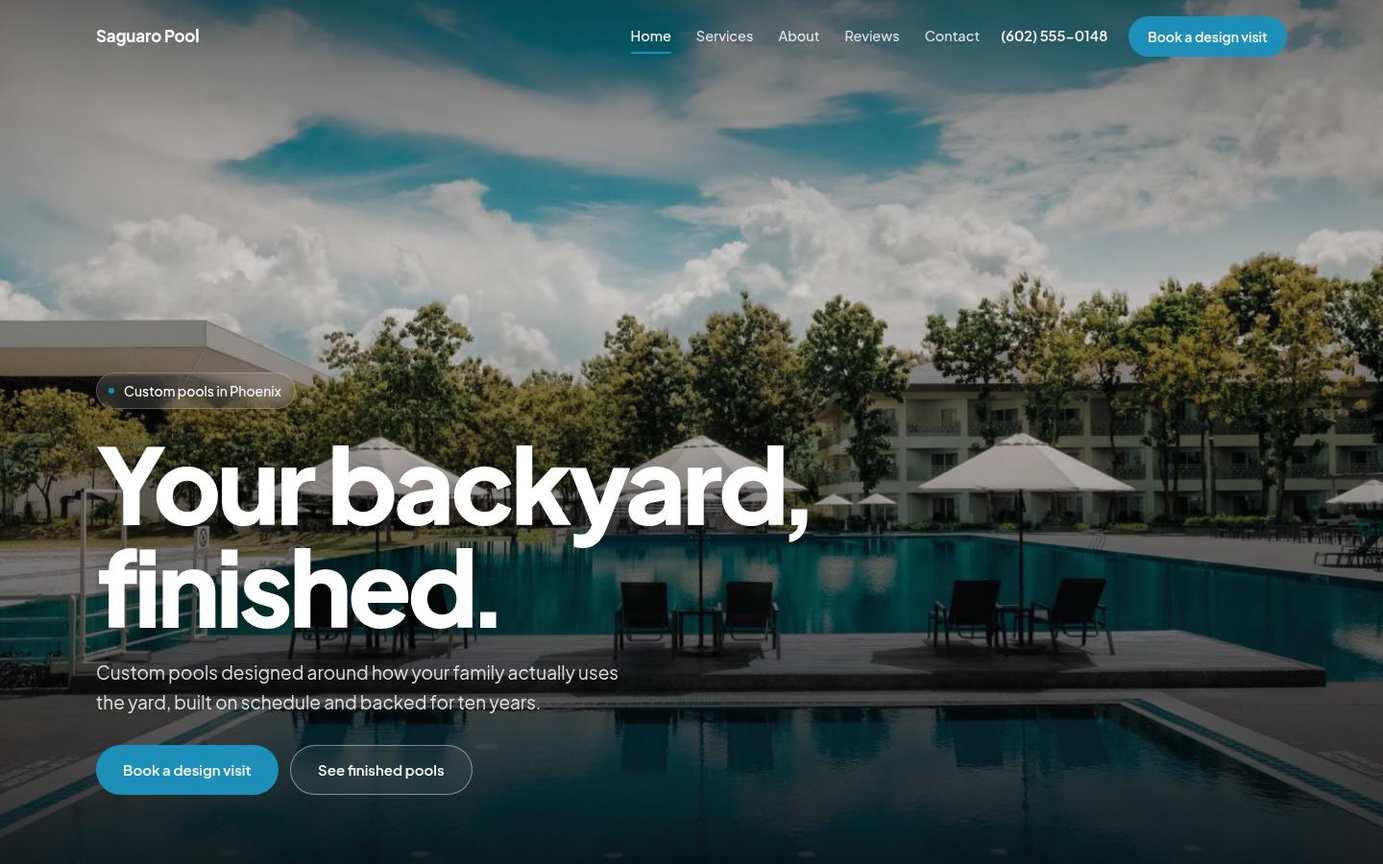
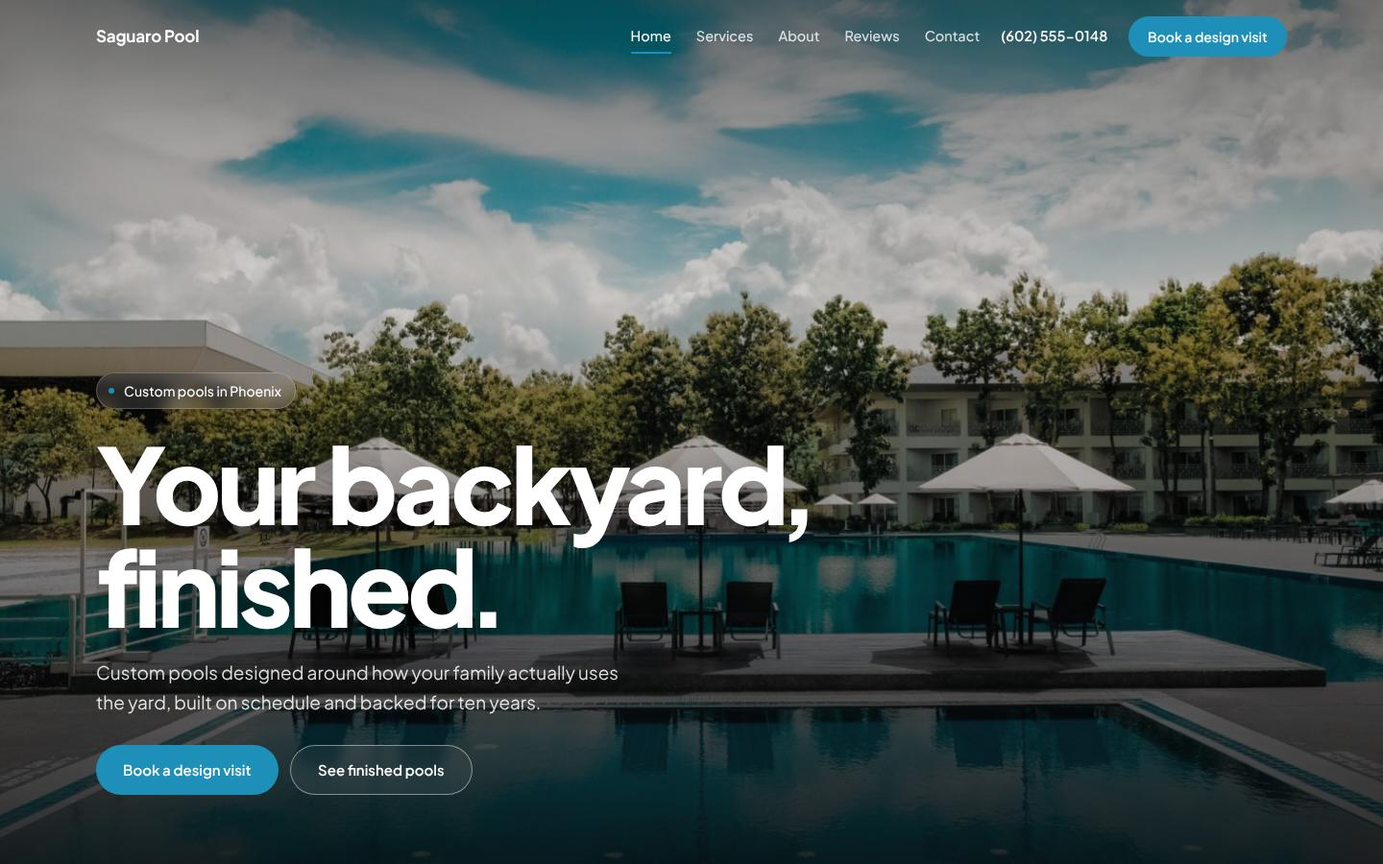
Sample websites open in dark, with matching pictures
One setting (SAMPLE_MODE) decides the mode every sample site on the
marketing site opens in, and the pictures of the designs are re-shot to
match. Visitors can still flip any sample to light from its top bar.

Claude-Session: https://claude.ai/code/session_01VqsXdAoWLwWRpnBaUkDbvd

diff --git a/marketing-site/examples/handyman/services/index.html b/marketing-site/examples/handyman/services/index.html
@@ -1,4 +1,4 @@
-<!doctype html><html lang="en" data-mode="light"><head><meta charset="utf-8"><script>
+<!doctype html><html lang="en" data-mode="dark"><head><meta charset="utf-8"><script>
 /* Sample site guard. These pages show a made-up business, so nothing on them may reach anything real:
    no form is sent, no enquiry is created, no visit is counted. Runs before anything else on the page. */
 (function(){
@@ -19,12 +19,12 @@
 </script><meta name="viewport" content="width=device-width,initial-scale=1,viewport-fit=cover">
 <title>Services | Cedar and Nail</title><meta name="description" content="Handyman services in Mesa."><link rel="canonical" href="/examples/handyman/services/">
 <meta property="og:title" content="Services | Cedar and Nail"><meta property="og:description" content="Handyman services in Mesa."><meta property="og:type" content="website"><meta property="og:url" content="/examples/handyman/services/"><meta property="og:image" content="/img/sample/handy-1249611.jpg">
-<meta name="theme-color" content="#F7F6F2"><meta name="robots" content="noindex">
+<meta name="theme-color" content="#131513"><meta name="robots" content="noindex">
 <link rel="preconnect" href="https://fonts.googleapis.com"><link rel="preconnect" href="https://fonts.gstatic.com" crossorigin><link rel="stylesheet" href="https://fonts.googleapis.com/css2?family=Playfair+Display:wght@400..700&family=Instrument+Sans:wght@400..700&display=swap" media="print" onload="this.media='all'"><noscript><link rel="stylesheet" href="https://fonts.googleapis.com/css2?family=Playfair+Display:wght@400..700&family=Instrument+Sans:wght@400..700&display=swap"></noscript>
 
 <style>
-:root{--bg:#F7F6F2;--bg2:#FFFFFF;--ink:#171A18;--mute:#686D69;--line:rgba(23,26,24,.12);--ac:#2F6B4F;--ac2:#2F6B4F;--ac3:#2F6B4F;--on:#FFFFFF;--card:#FFFFFF;--deep:#171A18;--r:4px;--ease:cubic-bezier(.2,.7,.1,1);--io:cubic-bezier(.7,0,.2,1)}
-html[data-mode=dark]{--bg:#131513;--bg2:#1B1E1C;--ink:#ECEAE3;--mute:#9DA39E;--line:rgba(236,234,227,.14);--ac:#2F6B4F;--ac2:#2F6B4F;--ac3:#2F6B4F;--on:#FFFFFF;--card:#1B1E1C;--deep:#1B1E1C}
+:root{--bg:#131513;--bg2:#1B1E1C;--ink:#ECEAE3;--mute:#9DA39E;--line:rgba(236,234,227,.14);--ac:#2F6B4F;--ac2:#2F6B4F;--ac3:#2F6B4F;--on:#FFFFFF;--card:#1B1E1C;--deep:#1B1E1C;--r:4px;--ease:cubic-bezier(.2,.7,.1,1);--io:cubic-bezier(.7,0,.2,1)}
+html[data-mode=light]{--bg:#F7F6F2;--bg2:#FFFFFF;--ink:#171A18;--mute:#686D69;--line:rgba(23,26,24,.12);--ac:#2F6B4F;--ac2:#2F6B4F;--ac3:#2F6B4F;--on:#FFFFFF;--card:#FFFFFF;--deep:#171A18}
 *{box-sizing:border-box;margin:0;padding:0}
 html{-webkit-text-size-adjust:100%;scroll-behavior:smooth}
 html.lenis,html.lenis body{height:auto}.lenis.lenis-smooth{scroll-behavior:auto!important}.lenis.lenis-stopped{overflow:hidden}

diff --git a/marketing-site/examples/handyman/contact/index.html b/marketing-site/examples/handyman/contact/index.html
@@ -1,4 +1,4 @@
-<!doctype html><html lang="en" data-mode="light"><head><meta charset="utf-8"><script>
+<!doctype html><html lang="en" data-mode="dark"><head><meta charset="utf-8"><script>
 /* Sample site guard. These pages show a made-up business, so nothing on them may reach anything real:
    no form is sent, no enquiry is created, no visit is counted. Runs before anything else on the page. */
 (function(){
@@ -19,12 +19,12 @@
 </script><meta name="viewport" content="width=device-width,initial-scale=1,viewport-fit=cover">
 <title>Contact | Cedar and Nail</title><meta name="description" content="Handyman services in Mesa."><link rel="canonical" href="/examples/handyman/contact/">
 <meta property="og:title" content="Contact | Cedar and Nail"><meta property="og:description" content="Handyman services in Mesa."><meta property="og:type" content="website"><meta property="og:url" content="/examples/handyman/contact/"><meta property="og:image" content="/img/sample/handy-1249611.jpg">
-<meta name="theme-color" content="#F7F6F2"><meta name="robots" content="noindex">
+<meta name="theme-color" content="#131513"><meta name="robots" content="noindex">
 <link rel="preconnect" href="https://fonts.googleapis.com"><link rel="preconnect" href="https://fonts.gstatic.com" crossorigin><link rel="stylesheet" href="https://fonts.googleapis.com/css2?family=Playfair+Display:wght@400..700&family=Instrument+Sans:wght@400..700&display=swap" media="print" onload="this.media='all'"><noscript><link rel="stylesheet" href="https://fonts.googleapis.com/css2?family=Playfair+Display:wght@400..700&family=Instrument+Sans:wght@400..700&display=swap"></noscript>
 
 <style>
-:root{--bg:#F7F6F2;--bg2:#FFFFFF;--ink:#171A18;--mute:#686D69;--line:rgba(23,26,24,.12);--ac:#2F6B4F;--ac2:#2F6B4F;--ac3:#2F6B4F;--on:#FFFFFF;--card:#FFFFFF;--deep:#171A18;--r:4px;--ease:cubic-bezier(.2,.7,.1,1);--io:cubic-bezier(.7,0,.2,1)}
-html[data-mode=dark]{--bg:#131513;--bg2:#1B1E1C;--ink:#ECEAE3;--mute:#9DA39E;--line:rgba(236,234,227,.14);--ac:#2F6B4F;--ac2:#2F6B4F;--ac3:#2F6B4F;--on:#FFFFFF;--card:#1B1E1C;--deep:#1B1E1C}
+:root{--bg:#131513;--bg2:#1B1E1C;--ink:#ECEAE3;--mute:#9DA39E;--line:rgba(236,234,227,.14);--ac:#2F6B4F;--ac2:#2F6B4F;--ac3:#2F6B4F;--on:#FFFFFF;--card:#1B1E1C;--deep:#1B1E1C;--r:4px;--ease:cubic-bezier(.2,.7,.1,1);--io:cubic-bezier(.7,0,.2,1)}
+html[data-mode=light]{--bg:#F7F6F2;--bg2:#FFFFFF;--ink:#171A18;--mute:#686D69;--line:rgba(23,26,24,.12);--ac:#2F6B4F;--ac2:#2F6B4F;--ac3:#2F6B4F;--on:#FFFFFF;--card:#FFFFFF;--deep:#171A18}
 *{box-sizing:border-box;margin:0;padding:0}
 html{-webkit-text-size-adjust:100%;scroll-behavior:smooth}
 html.lenis,html.lenis body{height:auto}.lenis.lenis-smooth{scroll-behavior:auto!important}.lenis.lenis-stopped{overflow:hidden}

diff --git a/marketing-site/examples/handyman/reviews/index.html b/marketing-site/examples/handyman/reviews/index.html
@@ -1,4 +1,4 @@
-<!doctype html><html lang="en" data-mode="light"><head><meta charset="utf-8"><script>
+<!doctype html><html lang="en" data-mode="dark"><head><meta charset="utf-8"><script>
 /* Sample site guard. These pages show a made-up business, so nothing on them may reach anything real:
    no form is sent, no enquiry is created, no visit is counted. Runs before anything else on the page. */
 (function(){
@@ -19,12 +19,12 @@
 </script><meta name="viewport" content="width=device-width,initial-scale=1,viewport-fit=cover">
 <title>Reviews | Cedar and Nail</title><meta name="description" content="Handyman services in Mesa."><link rel="canonical" href="/examples/handyman/reviews/">
 <meta property="og:title" content="Reviews | Cedar and Nail"><meta property="og:description" content="Handyman services in Mesa."><meta property="og:type" content="website"><meta property="og:url" content="/examples/handyman/reviews/"><meta property="og:image" content="/img/sample/handy-1249611.jpg">
-<meta name="theme-color" content="#F7F6F2"><meta name="robots" content="noindex">
+<meta name="theme-color" content="#131513"><meta name="robots" content="noindex">
 <link rel="preconnect" href="https://fonts.googleapis.com"><link rel="preconnect" href="https://fonts.gstatic.com" crossorigin><link rel="stylesheet" href="https://fonts.googleapis.com/css2?family=Playfair+Display:wght@400..700&family=Instrument+Sans:wght@400..700&display=swap" media="print" onload="this.media='all'"><noscript><link rel="stylesheet" href="https://fonts.googleapis.com/css2?family=Playfair+Display:wght@400..700&family=Instrument+Sans:wght@400..700&display=swap"></noscript>
 
 <style>
-:root{--bg:#F7F6F2;--bg2:#FFFFFF;--ink:#171A18;--mute:#686D69;--line:rgba(23,26,24,.12);--ac:#2F6B4F;--ac2:#2F6B4F;--ac3:#2F6B4F;--on:#FFFFFF;--card:#FFFFFF;--deep:#171A18;--r:4px;--ease:cubic-bezier(.2,.7,.1,1);--io:cubic-bezier(.7,0,.2,1)}
-html[data-mode=dark]{--bg:#131513;--bg2:#1B1E1C;--ink:#ECEAE3;--mute:#9DA39E;--line:rgba(236,234,227,.14);--ac:#2F6B4F;--ac2:#2F6B4F;--ac3:#2F6B4F;--on:#FFFFFF;--card:#1B1E1C;--deep:#1B1E1C}
+:root{--bg:#131513;--bg2:#1B1E1C;--ink:#ECEAE3;--mute:#9DA39E;--line:rgba(236,234,227,.14);--ac:#2F6B4F;--ac2:#2F6B4F;--ac3:#2F6B4F;--on:#FFFFFF;--card:#1B1E1C;--deep:#1B1E1C;--r:4px;--ease:cubic-bezier(.2,.7,.1,1);--io:cubic-bezier(.7,0,.2,1)}
+html[data-mode=light]{--bg:#F7F6F2;--bg2:#FFFFFF;--ink:#171A18;--mute:#686D69;--line:rgba(23,26,24,.12);--ac:#2F6B4F;--ac2:#2F6B4F;--ac3:#2F6B4F;--on:#FFFFFF;--card:#FFFFFF;--deep:#171A18}
 *{box-sizing:border-box;margin:0;padding:0}
 html{-webkit-text-size-adjust:100%;scroll-behavior:smooth}
 html.lenis,html.lenis body{height:auto}.lenis.lenis-smooth{scroll-behavior:auto!important}.lenis.lenis-stopped{overflow:hidden}

diff --git a/marketing-site/examples/window-tint/services/index.html b/marketing-site/examples/window-tint/services/index.html
@@ -1,4 +1,4 @@
-<!doctype html><html lang="en" data-mode="light"><head><meta charset="utf-8"><script>
+<!doctype html><html lang="en" data-mode="dark"><head><meta charset="utf-8"><script>
 /* Sample site guard. These pages show a made-up business, so nothing on them may reach anything real:
    no form is sent, no enquiry is created, no visit is counted. Runs before anything else on the page. */
 (function(){
@@ -19,12 +19,12 @@
 </script><meta name="viewport" content="width=device-width,initial-scale=1,viewport-fit=cover">
 <title>Services | Blackline Tint and Film</title><meta name="description" content="Window tint and paint protection film in Tempe."><link rel="canonical" href="/examples/window-tint/services/">
 <meta property="og:title" content="Services | Blackline Tint and Film"><meta property="og:description" content="Window tint and paint protection film in Tempe."><meta property="og:type" content="website"><meta property="og:url" content="/examples/window-tint/services/"><meta property="og:image" content="/img/sample/tint-6872165.jpg">
-<meta name="theme-color" content="#F8F7F4"><meta name="robots" content="noindex">
+<meta name="theme-color" content="#0F1012"><meta name="robots" content="noindex">
 <link rel="preconnect" href="https://fonts.googleapis.com"><link rel="preconnect" href="https://fonts.gstatic.com" crossorigin><link rel="stylesheet" href="https://fonts.googleapis.com/css2?family=Plus+Jakarta+Sans:wght@400..800&display=swap" media="print" onload="this.media='all'"><noscript><link rel="stylesheet" href="https://fonts.googleapis.com/css2?family=Plus+Jakarta+Sans:wght@400..800&display=swap"></noscript>
 
 <style>
-:root{--bg:#F8F7F4;--bg2:#FFFFFF;--ink:#111214;--mute:#5E6166;--line:rgba(17,18,20,.10);--ac:#B8312F;--ac2:#B8312F;--ac3:#B8312F;--on:#FFFFFF;--card:#FFFFFF;--deep:#111214;--r:20px;--ease:cubic-bezier(.2,.7,.1,1);--io:cubic-bezier(.7,0,.2,1)}
-html[data-mode=dark]{--bg:#0F1012;--bg2:#18191C;--ink:#F4F3F0;--mute:#A3A6AC;--line:rgba(255,255,255,.10);--ac:#B8312F;--ac2:#B8312F;--ac3:#B8312F;--on:#FFFFFF;--card:#18191C;--deep:#18191C}
+:root{--bg:#0F1012;--bg2:#18191C;--ink:#F4F3F0;--mute:#A3A6AC;--line:rgba(255,255,255,.10);--ac:#B8312F;--ac2:#B8312F;--ac3:#B8312F;--on:#FFFFFF;--card:#18191C;--deep:#18191C;--r:20px;--ease:cubic-bezier(.2,.7,.1,1);--io:cubic-bezier(.7,0,.2,1)}
+html[data-mode=light]{--bg:#F8F7F4;--bg2:#FFFFFF;--ink:#111214;--mute:#5E6166;--line:rgba(17,18,20,.10);--ac:#B8312F;--ac2:#B8312F;--ac3:#B8312F;--on:#FFFFFF;--card:#FFFFFF;--deep:#111214}
 *{box-sizing:border-box;margin:0;padding:0}
 html{-webkit-text-size-adjust:100%;scroll-behavior:smooth}
 html.lenis,html.lenis body{height:auto}.lenis.lenis-smooth{scroll-behavior:auto!important}.lenis.lenis-stopped{overflow:hidden}

diff --git a/marketing-site/examples/editorial/services/index.html b/marketing-site/examples/editorial/services/index.html
@@ -1,4 +1,4 @@
-<!doctype html><html lang="en" data-mode="light"><head><meta charset="utf-8"><script>
+<!doctype html><html lang="en" data-mode="dark"><head><meta charset="utf-8"><script>
 /* Sample site guard. These pages show a made-up business, so nothing on them may reach anything real:
    no form is sent, no enquiry is created, no visit is counted. Runs before anything else on the page. */
 (function(){
@@ -19,12 +19,12 @@
 </script><meta name="viewport" content="width=device-width,initial-scale=1,viewport-fit=cover">
 <title>Services | Saguaro Pool</title><meta name="description" content="Custom pools in Phoenix."><link rel="canonical" href="/examples/editorial/services/">
 <meta property="og:title" content="Services | Saguaro Pool"><meta property="og:description" content="Custom pools in Phoenix."><meta property="og:type" content="website"><meta property="og:url" content="/examples/editorial/services/"><meta property="og:image" content="/img/sample/pool-189296.jpg">
-<meta name="theme-color" content="#F7F6F2"><meta name="robots" content="noindex">
+<meta name="theme-color" content="#131513"><meta name="robots" content="noindex">
 <link rel="preconnect" href="https://fonts.googleapis.com"><link rel="preconnect" href="https://fonts.gstatic.com" crossorigin><link rel="stylesheet" href="https://fonts.googleapis.com/css2?family=Playfair+Display:wght@400..700&family=Instrument+Sans:wght@400..700&display=swap" media="print" onload="this.media='all'"><noscript><link rel="stylesheet" href="https://fonts.googleapis.com/css2?family=Playfair+Display:wght@400..700&family=Instrument+Sans:wght@400..700&display=swap"></noscript>
 
 <style>
-:root{--bg:#F7F6F2;--bg2:#FFFFFF;--ink:#171A18;--mute:#686D69;--line:rgba(23,26,24,.12);--ac:#1E8FB8;--ac2:#1E8FB8;--ac3:#1E8FB8;--on:#FFFFFF;--card:#FFFFFF;--deep:#171A18;--r:4px;--ease:cubic-bezier(.2,.7,.1,1);--io:cubic-bezier(.7,0,.2,1)}
-html[data-mode=dark]{--bg:#131513;--bg2:#1B1E1C;--ink:#ECEAE3;--mute:#9DA39E;--line:rgba(236,234,227,.14);--ac:#1E8FB8;--ac2:#1E8FB8;--ac3:#1E8FB8;--on:#FFFFFF;--card:#1B1E1C;--deep:#1B1E1C}
+:root{--bg:#131513;--bg2:#1B1E1C;--ink:#ECEAE3;--mute:#9DA39E;--line:rgba(236,234,227,.14);--ac:#1E8FB8;--ac2:#1E8FB8;--ac3:#1E8FB8;--on:#FFFFFF;--card:#1B1E1C;--deep:#1B1E1C;--r:4px;--ease:cubic-bezier(.2,.7,.1,1);--io:cubic-bezier(.7,0,.2,1)}
+html[data-mode=light]{--bg:#F7F6F2;--bg2:#FFFFFF;--ink:#171A18;--mute:#686D69;--line:rgba(23,26,24,.12);--ac:#1E8FB8;--ac2:#1E8FB8;--ac3:#1E8FB8;--on:#FFFFFF;--card:#FFFFFF;--deep:#171A18}
 *{box-sizing:border-box;margin:0;padding:0}
 html{-webkit-text-size-adjust:100%;scroll-behavior:smooth}
 html.lenis,html.lenis body{height:auto}.lenis.lenis-smooth{scroll-behavior:auto!important}.lenis.lenis-stopped{overflow:hidden}

diff --git a/marketing-site/examples/window-tint/contact/index.html b/marketing-site/examples/window-tint/contact/index.html
@@ -1,4 +1,4 @@
-<!doctype html><html lang="en" data-mode="light"><head><meta charset="utf-8"><script>
+<!doctype html><html lang="en" data-mode="dark"><head><meta charset="utf-8"><script>
 /* Sample site guard. These pages show a made-up business, so nothing on them may reach anything real:
    no form is sent, no enquiry is created, no visit is counted. Runs before anything else on the page. */
 (function(){
@@ -19,12 +19,12 @@
 </script><meta name="viewport" content="width=device-width,initial-scale=1,viewport-fit=cover">
 <title>Contact | Blackline Tint and Film</title><meta name="description" content="Window tint and paint protection film in Tempe."><link rel="canonical" href="/examples/window-tint/contact/">
 <meta property="og:title" content="Contact | Blackline Tint and Film"><meta property="og:description" content="Window tint and paint protection film in Tempe."><meta property="og:type" content="website"><meta property="og:url" content="/examples/window-tint/contact/"><meta property="og:image" content="/img/sample/tint-6872165.jpg">
-<meta name="theme-color" content="#F8F7F4"><meta name="robots" content="noindex">
+<meta name="theme-color" content="#0F1012"><meta name="robots" content="noindex">
 <link rel="preconnect" href="https://fonts.googleapis.com"><link rel="preconnect" href="https://fonts.gstatic.com" crossorigin><link rel="stylesheet" href="https://fonts.googleapis.com/css2?family=Plus+Jakarta+Sans:wght@400..800&display=swap" media="print" onload="this.media='all'"><noscript><link rel="stylesheet" href="https://fonts.googleapis.com/css2?family=Plus+Jakarta+Sans:wght@400..800&display=swap"></noscript>
 
 <style>
-:root{--bg:#F8F7F4;--bg2:#FFFFFF;--ink:#111214;--mute:#5E6166;--line:rgba(17,18,20,.10);--ac:#B8312F;--ac2:#B8312F;--ac3:#B8312F;--on:#FFFFFF;--card:#FFFFFF;--deep:#111214;--r:20px;--ease:cubic-bezier(.2,.7,.1,1);--io:cubic-bezier(.7,0,.2,1)}
-html[data-mode=dark]{--bg:#0F1012;--bg2:#18191C;--ink:#F4F3F0;--mute:#A3A6AC;--line:rgba(255,255,255,.10);--ac:#B8312F;--ac2:#B8312F;--ac3:#B8312F;--on:#FFFFFF;--card:#18191C;--deep:#18191C}
+:root{--bg:#0F1012;--bg2:#18191C;--ink:#F4F3F0;--mute:#A3A6AC;--line:rgba(255,255,255,.10);--ac:#B8312F;--ac2:#B8312F;--ac3:#B8312F;--on:#FFFFFF;--card:#18191C;--deep:#18191C;--r:20px;--ease:cubic-bezier(.2,.7,.1,1);--io:cubic-bezier(.7,0,.2,1)}
+html[data-mode=light]{--bg:#F8F7F4;--bg2:#FFFFFF;--ink:#111214;--mute:#5E6166;--line:rgba(17,18,20,.10);--ac:#B8312F;--ac2:#B8312F;--ac3:#B8312F;--on:#FFFFFF;--card:#FFFFFF;--deep:#111214}
 *{box-sizing:border-box;margin:0;padding:0}
 html{-webkit-text-size-adjust:100%;scroll-behavior:smooth}
 html.lenis,html.lenis body{height:auto}.lenis.lenis-smooth{scroll-behavior:auto!important}.lenis.lenis-stopped{overflow:hidden}

diff --git a/marketing-site/examples/window-tint/reviews/index.html b/marketing-site/examples/window-tint/reviews/index.html
@@ -1,4 +1,4 @@
-<!doctype html><html lang="en" data-mode="light"><head><meta charset="utf-8"><script>
+<!doctype html><html lang="en" data-mode="dark"><head><meta charset="utf-8"><script>
 /* Sample site guard. These pages show a made-up business, so nothing on them may reach anything real:
    no form is sent, no enquiry is created, no visit is counted. Runs before anything else on the page. */
 (function(){
@@ -19,12 +19,12 @@
 </script><meta name="viewport" content="width=device-width,initial-scale=1,viewport-fit=cover">
 <title>Reviews | Blackline Tint and Film</title><meta name="description" content="Window tint and paint protection film in Tempe."><link rel="canonical" href="/examples/window-tint/reviews/">
 <meta property="og:title" content="Reviews | Blackline Tint and Film"><meta property="og:description" content="Window tint and paint protection film in Tempe."><meta property="og:type" content="website"><meta property="og:url" content="/examples/window-tint/reviews/"><meta property="og:image" content="/img/sample/tint-6872165.jpg">
-<meta name="theme-color" content="#F8F7F4"><meta name="robots" content="noindex">
+<meta name="theme-color" content="#0F1012"><meta name="robots" content="noindex">
 <link rel="preconnect" href="https://fonts.googleapis.com"><link rel="preconnect" href="https://fonts.gstatic.com" crossorigin><link rel="stylesheet" href="https://fonts.googleapis.com/css2?family=Plus+Jakarta+Sans:wght@400..800&display=swap" media="print" onload="this.media='all'"><noscript><link rel="stylesheet" href="https://fonts.googleapis.com/css2?family=Plus+Jakarta+Sans:wght@400..800&display=swap"></noscript>
 
 <style>
-:root{--bg:#F8F7F4;--bg2:#FFFFFF;--ink:#111214;--mute:#5E6166;--line:rgba(17,18,20,.10);--ac:#B8312F;--ac2:#B8312F;--ac3:#B8312F;--on:#FFFFFF;--card:#FFFFFF;--deep:#111214;--r:20px;--ease:cubic-bezier(.2,.7,.1,1);--io:cubic-bezier(.7,0,.2,1)}
-html[data-mode=dark]{--bg:#0F1012;--bg2:#18191C;--ink:#F4F3F0;--mute:#A3A6AC;--line:rgba(255,255,255,.10);--ac:#B8312F;--ac2:#B8312F;--ac3:#B8312F;--on:#FFFFFF;--card:#18191C;--deep:#18191C}
+:root{--bg:#0F1012;--bg2:#18191C;--ink:#F4F3F0;--mute:#A3A6AC;--line:rgba(255,255,255,.10);--ac:#B8312F;--ac2:#B8312F;--ac3:#B8312F;--on:#FFFFFF;--card:#18191C;--deep:#18191C;--r:20px;--ease:cubic-bezier(.2,.7,.1,1);--io:cubic-bezier(.7,0,.2,1)}
+html[data-mode=light]{--bg:#F8F7F4;--bg2:#FFFFFF;--ink:#111214;--mute:#5E6166;--line:rgba(17,18,20,.10);--ac:#B8312F;--ac2:#B8312F;--ac3:#B8312F;--on:#FFFFFF;--card:#FFFFFF;--deep:#111214}
 *{box-sizing:border-box;margin:0;padding:0}
 html{-webkit-text-size-adjust:100%;scroll-behavior:smooth}
 html.lenis,html.lenis body{height:auto}.lenis.lenis-smooth{scroll-behavior:auto!important}.lenis.lenis-stopped{overflow:hidden}

diff --git a/marketing-site/examples/editorial/contact/index.html b/marketing-site/examples/editorial/contact/index.html
@@ -1,4 +1,4 @@
-<!doctype html><html lang="en" data-mode="light"><head><meta charset="utf-8"><script>
+<!doctype html><html lang="en" data-mode="dark"><head><meta charset="utf-8"><script>
 /* Sample site guard. These pages show a made-up business, so nothing on them may reach anything real:
    no form is sent, no enquiry is created, no visit is counted. Runs before anything else on the page. */
 (function(){
@@ -19,12 +19,12 @@
 </script><meta name="viewport" content="width=device-width,initial-scale=1,viewport-fit=cover">
 <title>Contact | Saguaro Pool</title><meta name="description" content="Custom pools in Phoenix."><link rel="canonical" href="/examples/editorial/contact/">
 <meta property="og:title" content="Contact | Saguaro Pool"><meta property="og:description" content="Custom pools in Phoenix."><meta property="og:type" content="website"><meta property="og:url" content="/examples/editorial/contact/"><meta property="og:image" content="/img/sample/pool-189296.jpg">
-<meta name="theme-color" content="#F7F6F2"><meta name="robots" content="noindex">
+<meta name="theme-color" content="#131513"><meta name="robots" content="noindex">
 <link rel="preconnect" href="https://fonts.googleapis.com"><link rel="preconnect" href="https://fonts.gstatic.com" crossorigin><link rel="stylesheet" href="https://fonts.googleapis.com/css2?family=Playfair+Display:wght@400..700&family=Instrument+Sans:wght@400..700&display=swap" media="print" onload="this.media='all'"><noscript><link rel="stylesheet" href="https://fonts.googleapis.com/css2?family=Playfair+Display:wght@400..700&family=Instrument+Sans:wght@400..700&display=swap"></noscript>
 
 <style>
-:root{--bg:#F7F6F2;--bg2:#FFFFFF;--ink:#171A18;--mute:#686D69;--line:rgba(23,26,24,.12);--ac:#1E8FB8;--ac2:#1E8FB8;--ac3:#1E8FB8;--on:#FFFFFF;--card:#FFFFFF;--deep:#171A18;--r:4px;--ease:cubic-bezier(.2,.7,.1,1);--io:cubic-bezier(.7,0,.2,1)}
-html[data-mode=dark]{--bg:#131513;--bg2:#1B1E1C;--ink:#ECEAE3;--mute:#9DA39E;--line:rgba(236,234,227,.14);--ac:#1E8FB8;--ac2:#1E8FB8;--ac3:#1E8FB8;--on:#FFFFFF;--card:#1B1E1C;--deep:#1B1E1C}
+:root{--bg:#131513;--bg2:#1B1E1C;--ink:#ECEAE3;--mute:#9DA39E;--line:rgba(236,234,227,.14);--ac:#1E8FB8;--ac2:#1E8FB8;--ac3:#1E8FB8;--on:#FFFFFF;--card:#1B1E1C;--deep:#1B1E1C;--r:4px;--ease:cubic-bezier(.2,.7,.1,1);--io:cubic-bezier(.7,0,.2,1)}
+html[data-mode=light]{--bg:#F7F6F2;--bg2:#FFFFFF;--ink:#171A18;--mute:#686D69;--line:rgba(23,26,24,.12);--ac:#1E8FB8;--ac2:#1E8FB8;--ac3:#1E8FB8;--on:#FFFFFF;--card:#FFFFFF;--deep:#171A18}
 *{box-sizing:border-box;margin:0;padding:0}
 html{-webkit-text-size-adjust:100%;scroll-behavior:smooth}
 html.lenis,html.lenis body{height:auto}.lenis.lenis-smooth{scroll-behavior:auto!important}.lenis.lenis-stopped{overflow:hidden}

diff --git a/marketing-site/examples/editorial/reviews/index.html b/marketing-site/examples/editorial/reviews/index.html
@@ -1,4 +1,4 @@
-<!doctype html><html lang="en" data-mode="light"><head><meta charset="utf-8"><script>
+<!doctype html><html lang="en" data-mode="dark"><head><meta charset="utf-8"><script>
 /* Sample site guard. These pages show a made-up business, so nothing on them may reach anything real:
    no form is sent, no enquiry is created, no visit is counted. Runs before anything else on the page. */
 (function(){
@@ -19,12 +19,12 @@
 </script><meta name="viewport" content="width=device-width,initial-scale=1,viewport-fit=cover">
 <title>Reviews | Saguaro Pool</title><meta name="description" content="Custom pools in Phoenix."><link rel="canonical" href="/examples/editorial/reviews/">
 <meta property="og:title" content="Reviews | Saguaro Pool"><meta property="og:description" content="Custom pools in Phoenix."><meta property="og:type" content="website"><meta property="og:url" content="/examples/editorial/reviews/"><meta property="og:image" content="/img/sample/pool-189296.jpg">
-<meta name="theme-color" content="#F7F6F2"><meta name="robots" content="noindex">
+<meta name="theme-color" content="#131513"><meta name="robots" content="noindex">
 <link rel="preconnect" href="https://fonts.googleapis.com"><link rel="preconnect" href="https://fonts.gstatic.com" crossorigin><link rel="stylesheet" href="https://fonts.googleapis.com/css2?family=Playfair+Display:wght@400..700&family=Instrument+Sans:wght@400..700&display=swap" media="print" onload="this.media='all'"><noscript><link rel="stylesheet" href="https://fonts.googleapis.com/css2?family=Playfair+Display:wght@400..700&family=Instrument+Sans:wght@400..700&display=swap"></noscript>
 
 <style>
-:root{--bg:#F7F6F2;--bg2:#FFFFFF;--ink:#171A18;--mute:#686D69;--line:rgba(23,26,24,.12);--ac:#1E8FB8;--ac2:#1E8FB8;--ac3:#1E8FB8;--on:#FFFFFF;--card:#FFFFFF;--deep:#171A18;--r:4px;--ease:cubic-bezier(.2,.7,.1,1);--io:cubic-bezier(.7,0,.2,1)}
-html[data-mode=dark]{--bg:#131513;--bg2:#1B1E1C;--ink:#ECEAE3;--mute:#9DA39E;--line:rgba(236,234,227,.14);--ac:#1E8FB8;--ac2:#1E8FB8;--ac3:#1E8FB8;--on:#FFFFFF;--card:#1B1E1C;--deep:#1B1E1C}
+:root{--bg:#131513;--bg2:#1B1E1C;--ink:#ECEAE3;--mute:#9DA39E;--line:rgba(236,234,227,.14);--ac:#1E8FB8;--ac2:#1E8FB8;--ac3:#1E8FB8;--on:#FFFFFF;--card:#1B1E1C;--deep:#1B1E1C;--r:4px;--ease:cubic-bezier(.2,.7,.1,1);--io:cubic-bezier(.7,0,.2,1)}
+html[data-mode=light]{--bg:#F7F6F2;--bg2:#FFFFFF;--ink:#171A18;--mute:#686D69;--line:rgba(23,26,24,.12);--ac:#1E8FB8;--ac2:#1E8FB8;--ac3:#1E8FB8;--on:#FFFFFF;--card:#FFFFFF;--deep:#171A18}
 *{box-sizing:border-box;margin:0;padding:0}
 html{-webkit-text-size-adjust:100%;scroll-behavior:smooth}
 html.lenis,html.lenis body{height:auto}.lenis.lenis-smooth{scroll-behavior:auto!important}.lenis.lenis-stopped{overflow:hidden}

diff --git a/marketing-site/examples/handyman/about/index.html b/marketing-site/examples/handyman/about/index.html
@@ -1,4 +1,4 @@
-<!doctype html><html lang="en" data-mode="light"><head><meta charset="utf-8"><script>
+<!doctype html><html lang="en" data-mode="dark"><head><meta charset="utf-8"><script>
 /* Sample site guard. These pages show a made-up business, so nothing on them may reach anything real:
    no form is sent, no enquiry is created, no visit is counted. Runs before anything else on the page. */
 (function(){
@@ -19,12 +19,12 @@
 </script><meta name="viewport" content="width=device-width,initial-scale=1,viewport-fit=cover">
 <title>About | Cedar and Nail</title><meta name="description" content="Handyman services in Mesa."><link rel="canonical" href="/examples/handyman/about/">
 <meta property="og:title" content="About | Cedar and Nail"><meta property="og:description" content="Handyman services in Mesa."><meta property="og:type" content="website"><meta property="og:url" content="/examples/handyman/about/"><meta property="og:image" content="/img/sample/handy-1249611.jpg">
-<meta name="theme-color" content="#F7F6F2"><meta name="robots" content="noindex">
+<meta name="theme-color" content="#131513"><meta name="robots" content="noindex">
 <link rel="preconnect" href="https://fonts.googleapis.com"><link rel="preconnect" href="https://fonts.gstatic.com" crossorigin><link rel="stylesheet" href="https://fonts.googleapis.com/css2?family=Playfair+Display:wght@400..700&family=Instrument+Sans:wght@400..700&display=swap" media="print" onload="this.media='all'"><noscript><link rel="stylesheet" href="https://fonts.googleapis.com/css2?family=Playfair+Display:wght@400..700&family=Instrument+Sans:wght@400..700&display=swap"></noscript>
 
 <style>
-:root{--bg:#F7F6F2;--bg2:#FFFFFF;--ink:#171A18;--mute:#686D69;--line:rgba(23,26,24,.12);--ac:#2F6B4F;--ac2:#2F6B4F;--ac3:#2F6B4F;--on:#FFFFFF;--card:#FFFFFF;--deep:#171A18;--r:4px;--ease:cubic-bezier(.2,.7,.1,1);--io:cubic-bezier(.7,0,.2,1)}
-html[data-mode=dark]{--bg:#131513;--bg2:#1B1E1C;--ink:#ECEAE3;--mute:#9DA39E;--line:rgba(236,234,227,.14);--ac:#2F6B4F;--ac2:#2F6B4F;--ac3:#2F6B4F;--on:#FFFFFF;--card:#1B1E1C;--deep:#1B1E1C}
+:root{--bg:#131513;--bg2:#1B1E1C;--ink:#ECEAE3;--mute:#9DA39E;--line:rgba(236,234,227,.14);--ac:#2F6B4F;--ac2:#2F6B4F;--ac3:#2F6B4F;--on:#FFFFFF;--card:#1B1E1C;--deep:#1B1E1C;--r:4px;--ease:cubic-bezier(.2,.7,.1,1);--io:cubic-bezier(.7,0,.2,1)}
+html[data-mode=light]{--bg:#F7F6F2;--bg2:#FFFFFF;--ink:#171A18;--mute:#686D69;--line:rgba(23,26,24,.12);--ac:#2F6B4F;--ac2:#2F6B4F;--ac3:#2F6B4F;--on:#FFFFFF;--card:#FFFFFF;--deep:#171A18}
 *{box-sizing:border-box;margin:0;padding:0}
 html{-webkit-text-size-adjust:100%;scroll-behavior:smooth}
 html.lenis,html.lenis body{height:auto}.lenis.lenis-smooth{scroll-behavior:auto!important}.lenis.lenis-stopped{overflow:hidden}

diff --git a/marketing-site/examples/handyman/index.html b/marketing-site/examples/handyman/index.html
@@ -1,4 +1,4 @@
-<!doctype html><html lang="en" data-mode="light"><head><meta charset="utf-8"><script>
+<!doctype html><html lang="en" data-mode="dark"><head><meta charset="utf-8"><script>
 /* Sample site guard. These pages show a made-up business, so nothing on them may reach anything real:
    no form is sent, no enquiry is created, no visit is counted. Runs before anything else on the page. */
 (function(){
@@ -19,12 +19,12 @@
 </script><meta name="viewport" content="width=device-width,initial-scale=1,viewport-fit=cover">
 <title>Cedar and Nail Home Repair</title><meta name="description" content="Handyman services in Mesa."><link rel="canonical" href="/examples/handyman/">
 <meta property="og:title" content="Cedar and Nail Home Repair"><meta property="og:description" content="Handyman services in Mesa."><meta property="og:type" content="website"><meta property="og:url" content="/examples/handyman/"><meta property="og:image" content="/img/sample/handy-1249611.jpg">
-<meta name="theme-color" content="#F7F6F2"><meta name="robots" content="noindex">
+<meta name="theme-color" content="#131513"><meta name="robots" content="noindex">
 <link rel="preconnect" href="https://fonts.googleapis.com"><link rel="preconnect" href="https://fonts.gstatic.com" crossorigin><link rel="stylesheet" href="https://fonts.googleapis.com/css2?family=Playfair+Display:wght@400..700&family=Instrument+Sans:wght@400..700&display=swap" media="print" onload="this.media='all'"><noscript><link rel="stylesheet" href="https://fonts.googleapis.com/css2?family=Playfair+Display:wght@400..700&family=Instrument+Sans:wght@400..700&display=swap"></noscript>
 
 <style>
-:root{--bg:#F7F6F2;--bg2:#FFFFFF;--ink:#171A18;--mute:#686D69;--line:rgba(23,26,24,.12);--ac:#2F6B4F;--ac2:#2F6B4F;--ac3:#2F6B4F;--on:#FFFFFF;--card:#FFFFFF;--deep:#171A18;--r:4px;--ease:cubic-bezier(.2,.7,.1,1);--io:cubic-bezier(.7,0,.2,1)}
-html[data-mode=dark]{--bg:#131513;--bg2:#1B1E1C;--ink:#ECEAE3;--mute:#9DA39E;--line:rgba(236,234,227,.14);--ac:#2F6B4F;--ac2:#2F6B4F;--ac3:#2F6B4F;--on:#FFFFFF;--card:#1B1E1C;--deep:#1B1E1C}
+:root{--bg:#131513;--bg2:#1B1E1C;--ink:#ECEAE3;--mute:#9DA39E;--line:rgba(236,234,227,.14);--ac:#2F6B4F;--ac2:#2F6B4F;--ac3:#2F6B4F;--on:#FFFFFF;--card:#1B1E1C;--deep:#1B1E1C;--r:4px;--ease:cubic-bezier(.2,.7,.1,1);--io:cubic-bezier(.7,0,.2,1)}
+html[data-mode=light]{--bg:#F7F6F2;--bg2:#FFFFFF;--ink:#171A18;--mute:#686D69;--line:rgba(23,26,24,.12);--ac:#2F6B4F;--ac2:#2F6B4F;--ac3:#2F6B4F;--on:#FFFFFF;--card:#FFFFFF;--deep:#171A18}
 *{box-sizing:border-box;margin:0;padding:0}
 html{-webkit-text-size-adjust:100%;scroll-behavior:smooth}
 html.lenis,html.lenis body{height:auto}.lenis.lenis-smooth{scroll-behavior:auto!important}.lenis.lenis-stopped{overflow:hidden}

diff --git a/marketing-site/examples/window-tint/about/index.html b/marketing-site/examples/window-tint/about/index.html
@@ -1,4 +1,4 @@
-<!doctype html><html lang="en" data-mode="light"><head><meta charset="utf-8"><script>
+<!doctype html><html lang="en" data-mode="dark"><head><meta charset="utf-8"><script>
 /* Sample site guard. These pages show a made-up business, so nothing on them may reach anything real:
    no form is sent, no enquiry is created, no visit is counted. Runs before anything else on the page. */
 (function(){
@@ -19,12 +19,12 @@
 </script><meta name="viewport" content="width=device-width,initial-scale=1,viewport-fit=cover">
 <title>About | Blackline Tint and Film</title><meta name="description" content="Window tint and paint protection film in Tempe."><link rel="canonical" href="/examples/window-tint/about/">
 <meta property="og:title" content="About | Blackline Tint and Film"><meta property="og:description" content="Window tint and paint protection film in Tempe."><meta property="og:type" content="website"><meta property="og:url" content="/examples/window-tint/about/"><meta property="og:image" content="/img/sample/tint-6872165.jpg">
-<meta name="theme-color" content="#F8F7F4"><meta name="robots" content="noindex">
+<meta name="theme-color" content="#0F1012"><meta name="robots" content="noindex">
 <link rel="preconnect" href="https://fonts.googleapis.com"><link rel="preconnect" href="https://fonts.gstatic.com" crossorigin><link rel="stylesheet" href="https://fonts.googleapis.com/css2?family=Plus+Jakarta+Sans:wght@400..800&display=swap" media="print" onload="this.media='all'"><noscript><link rel="stylesheet" href="https://fonts.googleapis.com/css2?family=Plus+Jakarta+Sans:wght@400..800&display=swap"></noscript>
 
 <style>
-:root{--bg:#F8F7F4;--bg2:#FFFFFF;--ink:#111214;--mute:#5E6166;--line:rgba(17,18,20,.10);--ac:#B8312F;--ac2:#B8312F;--ac3:#B8312F;--on:#FFFFFF;--card:#FFFFFF;--deep:#111214;--r:20px;--ease:cubic-bezier(.2,.7,.1,1);--io:cubic-bezier(.7,0,.2,1)}
-html[data-mode=dark]{--bg:#0F1012;--bg2:#18191C;--ink:#F4F3F0;--mute:#A3A6AC;--line:rgba(255,255,255,.10);--ac:#B8312F;--ac2:#B8312F;--ac3:#B8312F;--on:#FFFFFF;--card:#18191C;--deep:#18191C}
+:root{--bg:#0F1012;--bg2:#18191C;--ink:#F4F3F0;--mute:#A3A6AC;--line:rgba(255,255,255,.10);--ac:#B8312F;--ac2:#B8312F;--ac3:#B8312F;--on:#FFFFFF;--card:#18191C;--deep:#18191C;--r:20px;--ease:cubic-bezier(.2,.7,.1,1);--io:cubic-bezier(.7,0,.2,1)}
+html[data-mode=light]{--bg:#F8F7F4;--bg2:#FFFFFF;--ink:#111214;--mute:#5E6166;--line:rgba(17,18,20,.10);--ac:#B8312F;--ac2:#B8312F;--ac3:#B8312F;--on:#FFFFFF;--card:#FFFFFF;--deep:#111214}
 *{box-sizing:border-box;margin:0;padding:0}
 html{-webkit-text-size-adjust:100%;scroll-behavior:smooth}
 html.lenis,html.lenis body{height:auto}.lenis.lenis-smooth{scroll-behavior:auto!important}.lenis.lenis-stopped{overflow:hidden}
